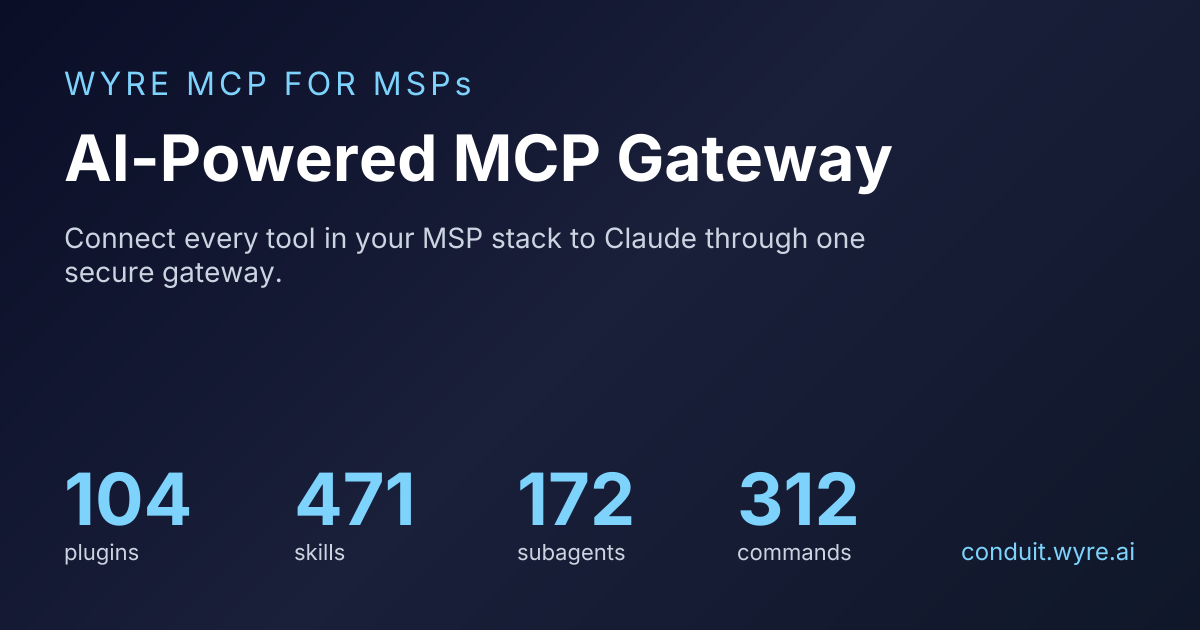
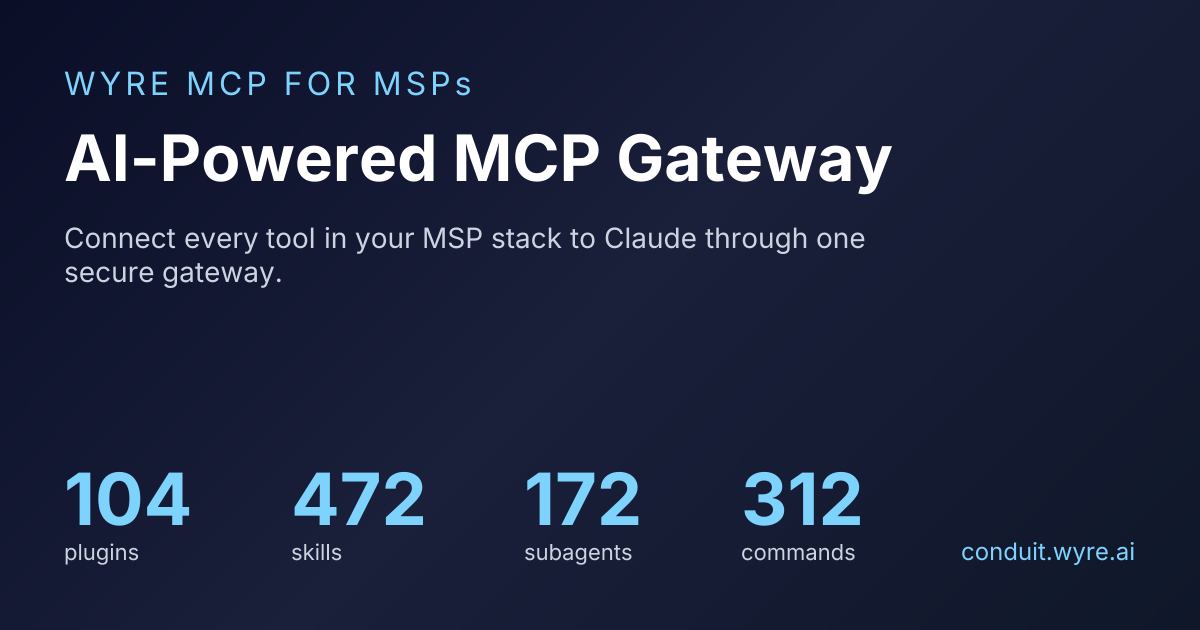
feat(finance-pack): Renewal and Price-Increase Prep (WYREAI-734) (#267)
* feat(finance-pack): add Renewal and Price-Increase Prep skill (WYREAI-734)

Add a companion skill that composes Agreement Reconciliation and Margin Analysis into per-client talking points for a renewal or price-increase conversation. It does not invent rates or amounts, and it produces a partial brief when a source is missing. Branched from main; coordinate with PR 261 (Churn Scanner), which also bumps finance-pack to 0.1.5.

* fix(finance-pack): anchor renewal prep to real Autotask contract and ticket tools

autotask_get_contract and autotask_list_expiring_contracts exist in Conduit (VENDOR_TOOL_CONFIG and the live tool list), and autotask_search_contracts filters endDateFrom/endDateTo on the server, so the skill no longer claims they are missing or that end dates must be filtered client-side. Adds a renewal-window tool-call example that uses only the real parameters, and a read-only delivered-work allow-list (autotask_search_tickets, cw_search_tickets, halopsa_tickets_list, syncro_tickets_list) so the value section can cite closed work. Regenerates docs data with npm run generate.

Claude-Session: https://claude.ai/code/session_01TSPBH4dciHwEHh8MnRWLb7

* fix(finance-pack): allow Autotask contract services and tighten renewal labor rule
[…]

Changed region(s): [[0.4317, 0.754, 0.555, 0.9048], [0.6167, 0.754, 0.74, 0.9048], [0.2467, 0.754, 0.37, 0.9048]]

diff --git a/msp-claude-plugins/docs/src/data/plugins.ts b/msp-claude-plugins/docs/src/data/plugins.ts
@@ -2791,12 +2791,14 @@ export const plugins: Plugin[] = [
     features: [
       'Agreement Reconciliation',
       'License True Up',
-      'Margin Analysis'
+      'Margin Analysis',
+      'Renewal And Price Increase Prep'
     ],
     skills: [
       { name: 'agreement-reconciliation', description: 'Reconciling PSA contract/agreement entitlements (seats, hours, recurring services) against invoiced reality in an accounting platform, across any combination of PSA (Autotask, HaloPSA, ConnectWise, Syncro) and accounting platform (QuickBooks Online, Xero).' },
       { name: 'license-true-up', description: 'Three-way seat reconciliation per client per SKU: seats provisioned in a cloud marketplace (Pax8, Sherweb) vs. seats billed in accounting or PSA billing vs. seats actually deployed in the tenant (microsoft-graph or CIPP).' },
-      { name: 'margin-analysis', description: 'Per-client and per-service-line margin computation for an MSP: revenue from PSA billing or accounting invoices, cost of goods from Pax8/Sherweb wholesale pricing, and estimated labor from PSA time entries × a loaded technician rate.' }
+      { name: 'margin-analysis', description: 'Per-client and per-service-line margin computation for an MSP: revenue from PSA billing or accounting invoices, cost of goods from Pax8/Sherweb wholesale pricing, and estimated labor from PSA time entries × a loaded technician rate.' },
+      { name: 'renewal-and-price-increase-prep', description: 'Composes Agreement Reconciliation and Margin Analysis into per-client talking points for an upcoming renewal or a price-increase conversation.' }
     ],
     agents: [
       { name: 'billing-drift-detector', description: 'Use this agent when an MSP billing team, controller, or account manager needs to run a portfolio-wide sweep for contract-vs-invoice mismatches — surfacing every client where the PSA agreement and the accounting invoice disagree, ranked by dollar impact.' },

diff --git a/msp-claude-plugins/finance-pack/skills/renewal-and-price-increase-prep/SKILL.md b/msp-claude-plugins/finance-pack/skills/renewal-and-price-increase-prep/SKILL.md
@@ -1,0 +1,221 @@
+---
+name: "Renewal and Price-Increase Prep"
+description: >
+  Composes Agreement Reconciliation and Margin Analysis into per-client
+  talking points for an upcoming renewal or a price-increase conversation.
+  Grounds every point in returned contracts, invoices, hours, and
+  marketplace data, and produces a partial brief when a source is missing
+  rather than inventing rates or amounts.
+when_to_use: >-
+  When preparing to talk with a client about renewal or a price increase,
+  and you need talking points built from agreement and margin evidence
+  rather than a new reconciliation from scratch. Use when: renewal talking
+  points, price-increase prep, renewal conversation brief, prepare a
+  price increase discussion, what to say at renewal, margin-backed
+  renewal talking points.
+---
+
+# Renewal and Price-Increase Prep
+
+## Overview
+
+Agreement Reconciliation already compares PSA entitlements to invoices.
+Margin Analysis already turns revenue, marketplace cost, and labor into
+per-client margin. This companion skill composes those two reads into a
+short, per-client brief for a renewal or price-increase conversation.
+
+Do not duplicate those skills' workflows. Follow them (or reuse their
+fresh output) to gather evidence, then write talking points. Never invent
+a rate, an increase percentage, or a dollar figure. If a number is not
+returned, omit it and say which source was missing.
+
+## Anti-triggers
+
+- **Reconciling contract lines to invoices as the main job:** use
+  [Agreement Reconciliation](../agreement-reconciliation/SKILL.md).
+- **Computing portfolio or service-line margin as the main job:** use
+  [Margin Analysis](../margin-analysis/SKILL.md).
+- **License seat true-up as the main job:** use
+  [License True-Up](../license-true-up/SKILL.md).
+- **Building the renewal calendar itself:** use the finance-pack
+  `renewal-calendar-builder` agent, or the `/finance-pack:renewals`
+  command, then come back here for talking points on a chosen client.
+
+## Connected Systems
+
+This skill uses the same systems as the two source skills. At least one
+side of the agreement picture (a PSA contract or agreement tool, or an
+accounting invoice tool) is required. Margin inputs (marketplace cost,
+time entries, a loaded labor rate supplied by the operator) are optional
+and must be labeled when missing.
+
+## Workflow
+
+### Step 1: Discover what is actually connected
+
+Call `conduit__search_tools` first. Use the exact names discovery returns.
+Gateway names often look like `<vendor-slug>__<tool_name>`. Pax8's hosted
+surface uses hyphenated names such as `pax8-list-subscriptions`.
+
+Only call read-only list, get, or search tools from the allow-list
+below. Never create, update, send, void, or raw/execute.
+
+**Client roster:** `autotask_search_companies`, `cw_search_companies`,
+`cw_get_company`, `halopsa_clients_list`, `halopsa_clients_get`,
+`halopsa_clients_search`, `syncro_customers_list`,
+`qbo_customers_list`, `qbo_customers_get`, `qbo_customers_search`,
+`xero_contacts_list`, `xero_contacts_get`, `xero_contacts_search`,
+`pax8-list-companies`.
+
+**Agreements and contracts:** `autotask_list_expiring_contracts`,
+`autotask_search_contracts`, `autotask_get_contract`,
+`autotask_search_contract_services`,
+`autotask_search_contract_service_units`,
+`autotask_search_contract_service_bundles`,
+`autotask_search_contract_service_bundle_units`, `cw_search_agreements`,
+`cw_get_agreement`, `cw_get_agreement_additions`.
+For a renewal window in Autotask, `autotask_list_expiring_contracts`
+returns contracts whose end date falls within `daysAhead` days (default
+60), optionally scoped to one `companyID`. Pass `includeExpired: true` to
+also catch contracts already past their end date, and if a full page
+comes back the list may be incomplete:
+
+```json
+{ "tool": "autotask_list_expiring_contracts", "arguments": { "companyID": 12345, "daysAhead": 90 } }
+```
+
+`autotask_search_contracts` also accepts `endDateFrom` and `endDateTo`
+(ISO dates). `autotask_get_contract` returns header fields only, with no
+service lines. Read the lines with `autotask_search_contract_services`
+and `autotask_search_contract_service_bundles`, and the billed
+quantities with the two `*_units` tools, counting bundle units alongside
+service units. The `*_units` tools return rows active on one `activeOn`
+day (default today), so never rely on the default for a past invoice.
+Query both tools at the start and end of the invoice period being
+reconciled, and on further dates if the period is long. Matching
+endpoint quantities do not rule out a change between them. If the
+period coverage or billing treatment cannot be established, mark the
+reconciliation incomplete instead of reporting a discrepancy.
+HaloPSA MCP has no contract or agreement list tool, and
+Syncro MCP has no contract list tool: when those are the only PSA, say
+the contract side is unavailable.
+
+**Invoices and billing:** `autotask_search_invoices`,
+`autotask_get_invoice_details`, `autotask_search_billing_items`,
+`autotask_get_billing_item`, `cw_search_invoices`, `cw_get_invoice`,
+`halopsa_invoices_list`, `halopsa_invoices_get`, `syncro_invoices_list`,
+`qbo_invoices_list`, `qbo_invoices_get`, `xero_invoices_list`,
+`xero_invoices_get`. You may use `xero_reports_aged_receivables` or
+`qbo_reports_customer_balance` as supporting collections context, not as
+a substitute for line-level reconciliation.
+
+**Marketplace (optional cost and subscription context):**
+`pax8-list-subscriptions`, `pax8-get-subscription-by-uuid`,
+`pax8-list-invoices`, `pax8-get-invoice-by-uuid`,
+`sherweb_subscriptions_list`, `sherweb_subscriptions_get`. Only call
+these when discovery shows they are callable. Never call
+`pax8_orders_create`, `pax8_subscriptions_update`, or
+`sherweb_subscriptions_change_quantity` (the first two are not served on
+the hosted Pax8 path anyway).
+
+**Labor (optional):** `autotask_search_time_entries`,
+`cw_search_time_entries`, `cw_get_time_entry`. If the operator does not
+supply a loaded labor rate, say labor cost could not be estimated. Do
+not invent a rate. This is stricter than Margin Analysis: do not use a
+PSA billing rate or resource cost rate as a proxy here, because a brief
+for a pricing conversation must not rest on an estimated labor cost.
+Without an operator-supplied rate, report hours as a fact and show
+margin as gross margin excluding labor (labeled that way), or as
+unavailable when marketplace cost is also missing.
+
+**Delivered work (optional):** `autotask_search_tickets`,
+`cw_search_tickets`, `halopsa_tickets_list`, `syncro_tickets_list`.
+Use these only to summarize the client's closed work for the value
+section. Never create, update, or comment on tickets.
+
+Some accounting reads (QuickBooks Online and Xero) may need an admin
+grant, because Conduit treats tools it has not classified as admin. If
+discovery does not show one as callable, treat that input as unavailable.
+
+If a vendor is connected but the needed tool is not in this list, treat
+that input as unavailable.
+
+### Step 2: Reuse the source skills
+
+For the chosen client (or each client in an upcoming renewal window):
+
+1. Follow [Agreement Reconciliation](../agreement-reconciliation/SKILL.md)
+   for entitlement versus invoice findings, including under-billing,
+   over-billing, lapsed agreements still invoiced, and lines that already
+   match.
+2. Follow [Margin Analysis](../margin-analysis/SKILL.md) for revenue,
+   marketplace cost, and labor, with the same missing-input labels that
+   skill already requires, but apply the stricter labor-rate rule in
+   Step 1 (operator-supplied rate only).
+
+Do not redo those skills' report formats. Extract the findings you need
+for the conversation.
+
+### Step 3: Write per-client talking points
+
+Produce a brief the account manager can take into a renewal or
+price-increase conversation:
+
+1. **Renewal context.** What is renewing, and when, from returned
+   contract or agreement dates. If end dates are missing, say so.
+2. **Billing accuracy.** A short, plain-language summary of
+   reconciliation findings that should be cleaned up or acknowledged
+   before any commercial conversation. Do not surprise a client with an
+   increase while an over-billing finding is still open.
+3. **Value and delivery evidence.** Hours and closed work only as
+   returned by the labor and delivered-work tools above. If those were not
+   connected, omit this section and say why.
+4. **Margin picture.** Directional only, and only from Margin Analysis
+   output (for example, "margin on this agreement is thin because
+   marketplace cost rose," citing the returned figures). If cost or labor
+   is missing, say the picture is incomplete.
+5. **Conversation prompts.** Questions and points to cover, not a script
+   that invents an increase. If the operator asked for a price-increase
+   recommendation, you may show the arithmetic from returned current
+   amounts, but you must not invent a target percentage or a new price.
+   Leave the decision to the operator.
+6. **Sources and gaps.** Which tools were used, and which checks were
+   unavailable (including the HaloPSA and Syncro contract-list gaps).
+
+Amounts in the brief must be copied from tool output or from the two
+source skills' evidence, with the source named. Do not convert, round
+into a "cleaner" made-up number, or add a "typical increase."
+
+## Error Handling
+
+### No client and no renewal window
+
+Ask which client or window to prepare. You may consult the finance-pack
+renewals command or `renewal-calendar-builder` for the list, then
+continue here.
+
+### Agreement or margin sources are only partly connected
+
+Write a partial brief and list the missing inputs. Do not fill cost,
+rate, or invoice gaps with estimates unless the operator supplies them
+and you label them as operator-supplied, not tool-returned.
+
+### Reconciliation finds over-billing or a lapsed agreement
+
+Put that finding first in the brief. Do not lead with a price-increase
+prompt in that situation.
+
+## Best Practices
+
+- One client per brief unless the operator asked for a batch of upcoming
+  renewals, in which case keep each client's section self-contained.
+- This is an internal talking-points document, not a client-facing
+  proposal.
+- Oxford commas, and no em dashes.
+
+## Related Skills
+
+- [Agreement Reconciliation](../agreement-reconciliation/SKILL.md)
+- [Margin Analysis](../margin-analysis/SKILL.md)
+- [License True-Up](../license-true-up/SKILL.md), when seat counts are
+  part of the renewal conversation

diff --git a/CHANGELOG.md b/CHANGELOG.md
@@ -71,6 +71,8 @@ and this project adheres to [Semantic Versioning](https://semver.org/spec/v2.0.0
 
 ### Added
 
+- **`finance-pack` 0.1.5: Renewal and Price-Increase Prep ([WYREAI-734](https://linear.app/wyre-ai/issue/WYREAI-734/conduit-skill-renewal-and-price-increase-prep)).** Adds a companion skill that composes Agreement Reconciliation and Margin Analysis into per-client talking points for a renewal or price-increase conversation. It does not invent rates or amounts, and it produces a partial brief when a source is missing.
+
 - **`assets-pack` 0.1.5: Refresh Quote List ([WYREAI-733](https://linear.app/wyre-ai/issue/WYREAI-733/conduit-skill-hardware-refresh-quote-list)).** Adds a companion skill that turns a Refresh Cycle Planning calendar into a per-client list of devices to quote, matched against a ScalePad Quoter, Kaseya Quote Manager, or ConnectWise PSA product catalog, and handing off to `scalepad-quoter` or `connectwise-cpq-quotes`. Read-only: it drafts the list and does not create quotes. Amounts appear only when a catalog tool returns them.
 
 - **18 new plugins for the Nov 9 Conduit connector batch (marketplace 1.36.0).** All version 1.0.0, each with an `api-patterns` skill, task skills, and one agent: `ai-org-admin` (Anthropic Admin), `openai-admin`, `jamf`, `acronis`, `bitwarden`, `1password`, `zabbix`, `lastpass`, `moovila` (plus a `/project-review` command), `webroot`, `cove`, `unitrends-uniview`, `gogetssl`, `smileback`, `myitprocess`, `alga-psa`, `dubber` and `mspcfo`. All of the connectors are in the Conduit catalog. `dubber` is still a preview vendor.

diff --git a/msp-claude-plugins/finance-pack/skills/margin-analysis/SKILL.md b/msp-claude-plugins/finance-pack/skills/margin-analysis/SKILL.md
@@ -50,6 +50,9 @@ Cost    = marketplace wholesale cost (Pax8/Sherweb) + estimated labor cost
   skill assembles.
 - **Time entries or billing items as records** — use
   `autotask-time-entries` or `autotask-billing`.
+- **Renewal or price-increase talking points** for a client conversation:
+  use [Renewal and Price-Increase Prep](../renewal-and-price-increase-prep/SKILL.md),
+  which composes Agreement Reconciliation with this skill.
 
 ## Connected Systems
 
@@ -179,4 +182,5 @@ SUMMARY
 
 - [`agreement-reconciliation`](../agreement-reconciliation/SKILL.md) — confirm billed revenue is accurate before trusting it as a margin input
 - [`license-true-up`](../license-true-up/SKILL.md) — confirm marketplace cost inputs reflect actual provisioned/deployed seats, not stale subscription data
+- [`renewal-and-price-increase-prep`](../renewal-and-price-increase-prep/SKILL.md): composes Agreement Reconciliation and this skill into renewal or price-increase talking points
 - [`shared/skills/billing-reconciliation`](../../../shared/skills/billing-reconciliation/SKILL.md) — margin math reference for Pax8-cost-vs-sell-price comparisons at the subscription level

diff --git a/msp-claude-plugins/finance-pack/skills/agreement-reconciliation/SKILL.md b/msp-claude-plugins/finance-pack/skills/agreement-reconciliation/SKILL.md
@@ -67,6 +67,9 @@ invoice line."
 - **Working an invoice itself** — creating, sending, or querying invoices is
   the accounting connector's surface; use `xero-invoices` or
   `qbo-invoices`.
+- **Renewal or price-increase talking points** for a client conversation:
+  use [Renewal and Price-Increase Prep](../renewal-and-price-increase-prep/SKILL.md),
+  which composes this skill with Margin Analysis.
 
 ## Connected Systems
 
@@ -253,3 +256,4 @@ MATCHED — No Issues
 - [`shared/skills/billing-reconciliation`](../../../shared/skills/billing-reconciliation/SKILL.md) — Pax8 subscription vs. accounting invoice reconciliation (distribution layer, not PSA)
 - [`license-true-up`](../license-true-up/SKILL.md) — Pax8/Sherweb subscription seats vs. billed vs. actually deployed seats
 - [`margin-analysis`](../margin-analysis/SKILL.md) — turns reconciled revenue into per-client margin once billing is confirmed accurate
+- [`renewal-and-price-increase-prep`](../renewal-and-price-increase-prep/SKILL.md): composes this skill and Margin Analysis into renewal or price-increase talking points

diff --git a/msp-claude-plugins/finance-pack/README.md b/msp-claude-plugins/finance-pack/README.md
@@ -31,6 +31,7 @@ skipping or guessing when a connector is missing.
 - `agreement-reconciliation` — PSA contract/agreement vs. accounting invoice reconciliation
 - `license-true-up` — marketplace-provisioned vs. billed vs. deployed seat reconciliation
 - `margin-analysis` — per-client/service-line margin, with explicit handling of missing cost data
+- `renewal-and-price-increase-prep` : composes Agreement Reconciliation and Margin Analysis into per-client talking points for a renewal or price-increase conversation, without inventing rates or amounts
 
 **Agents**
 - `billing-drift-detector` — portfolio-wide contract-vs-invoice mismatch sweep, ranked by dollar impact
